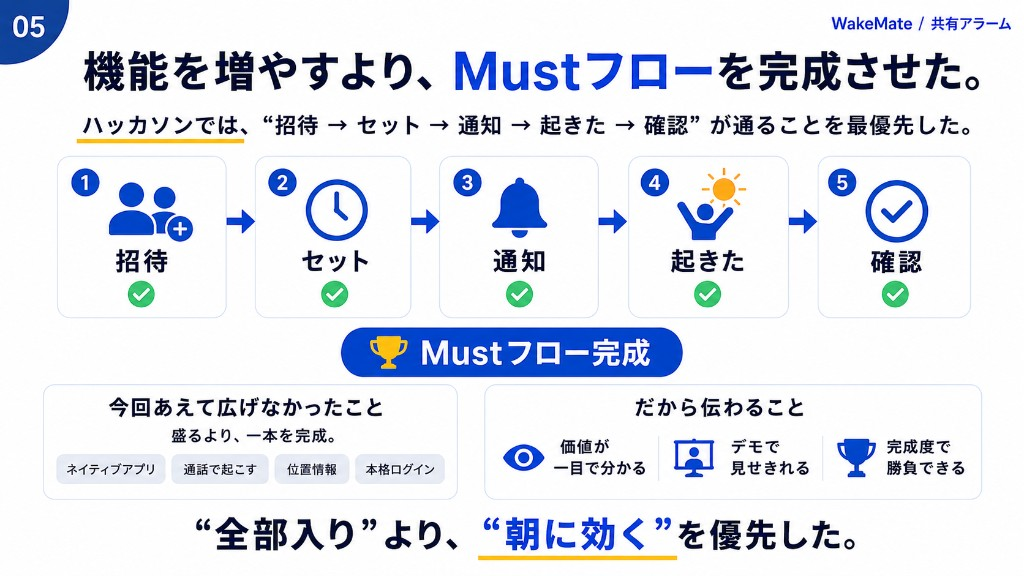
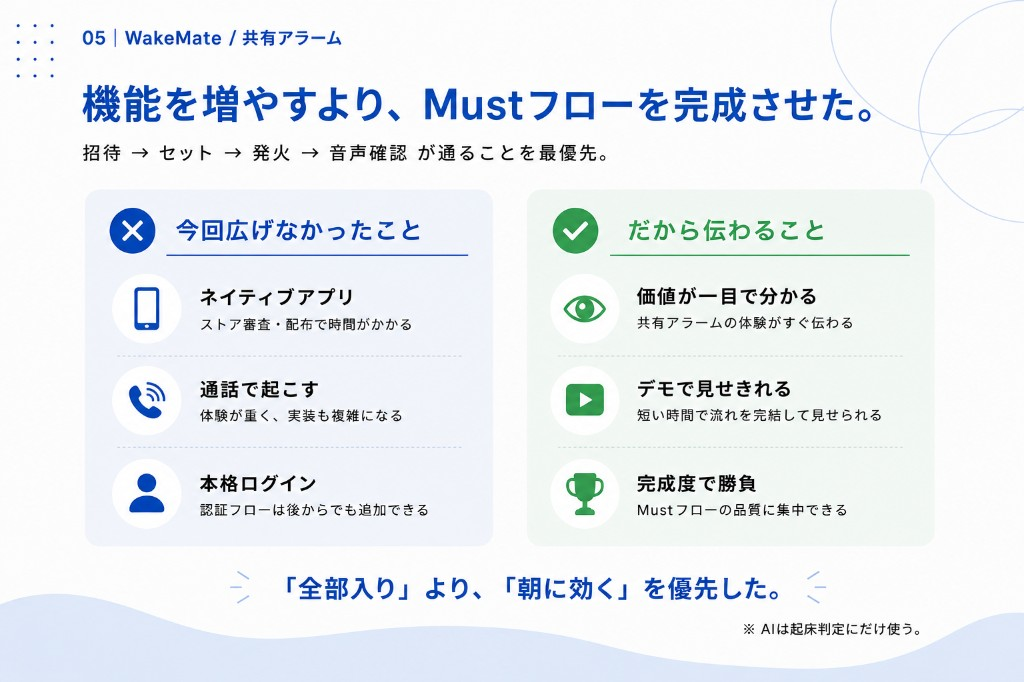
docs: refresh WakeMate pitch slides and add AI slide
Replace the slide PNGs with the new set and wire 04b (Workers AI / Whisper) into the viewer, README, and pitch script.

diff --git a/docs/slides/index.html b/docs/slides/index.html
@@ -55,7 +55,7 @@
 <body>
   <div id="stage"><img id="slide" alt="WakeMate slide" /></div>
   <div id="hud">
-    <span id="counter">1 / 7</span>
+    <span id="counter">1 / 8</span>
     <span><kbd>←</kbd> <kbd>→</kbd> / <kbd>Space</kbd> · <kbd>Home</kbd>/<kbd>End</kbd> · <kbd>F</kbd> fullscreen</span>
   </div>
   <script>
@@ -65,6 +65,7 @@
       { src: "02-solution.png", title: "解決" },
       { src: "03-must-flow.png", title: "Must UI" },
       { src: "04-tech.png", title: "技術" },
+      { src: "04b-ai.png", title: "AI（Whisper）" },
       { src: "05-scope.png", title: "スコープ" },
       { src: "06-brand.png", title: "締め" },
     ];

diff --git a/docs/slides/README.md b/docs/slides/README.md
@@ -13,11 +13,11 @@
 | 02 | `02-solution.png` | 解決 | アラームを「自分の設定」から「誰かとの約束」へ |
 | 03 | `03-must-flow.png` | Must UI | 招待→セット→発火→**音声確認**まで一本 |
 | 04 | `04-tech.png` | 技術 | Agents の schedule + setState。開いてるタブへリアルタイム |
-| 04b | `04b-ai.png`（再制作推奨） | **どうAIを使ったか** | Workers AI（Whisper）で読み上げ→文字起こし→照合。ボタン連打では突破できない |
+| 04b | `04b-ai.png` | **どうAIを使ったか** | Workers AI（Whisper）で読み上げ→文字起こし→照合。ボタン連打では突破できない |
 | 05 | `05-scope.png` | スコープ | 機能を足すより Must を完成させた（AIは起床判定にだけ使う） |
 | 06 | `06-brand.png` | 締め | 大事な朝は、信頼できる人が起こす |
 
-UI色・警報赤・音声確認はリポ直下 `仕様書.md` §3.1a / §11 を正とする。再制作プロンプトは仕様更新 PR の説明またはチャット成果物を参照。
+UI色・警報赤・音声確認はリポ直下 `仕様書.md` §3.1a / §11 を正とする。
 
 ## スライド 00（タイトル）
 
@@ -25,7 +25,7 @@ UI色・警報赤・音声確認はリポ直下 `仕様書.md` §3.1a / §11 を
 
 ## スライド 04（技術）メモ
 
-図は実装どおり（Agents / DO Alarm / 開いているタブへのリアルタイム。D1・Web Push なし）。デモ前提として両方タブを開いておく旨も図にある。**14:12 差し替え済み**（旧 D1/Push 図ではない）。
+図は実装どおり（Agents / DO Alarm / 開いているタブへのリアルタイム。D1・Web Push なし）。デモ前提として両方タブを開いておく旨も図にある。
 
 口頭の流れ（任意）:
 
@@ -34,6 +34,11 @@ UI色・警報赤・音声確認はリポ直下 `仕様書.md` §3.1a / §11 を
 3. 「起きた！」/ timed_out も同じ仕組み
 4. デモ前提: **両方タブを開いておく**（Push は Won't）
 
+## スライド 04b（AI）メモ
+
+起床確認に Workers AI（Whisper）を使う。読み上げフレーズ → マイク録音 → 文字起こし → 照合。単なるボタン連打では突破できない、という一点を口頭で押す。
+
 ## 補足
 
 - 03 の「ロック画面通知」モックも理想寄り。本番デモは開いているタブ上のフルスクリーン警報。
+- 全スライドは 2026-08-08 差し替え済み（`newslide-*` セット）。

diff --git a/docs/PITCH.md b/docs/PITCH.md
@@ -13,8 +13,9 @@
 | 0:00–0:20 | 入口 | 00 → 口頭 | 大事な朝は、人が起こす |
 | 0:20–1:30 | ①課題と解決 | 01 → 02 | 他人セット＋起床確認まで閉じる |
 | 1:30–3:00 | ②完成度 | 03（＋ライブデモ） | Workers で Must 一本（招待→発火→起きた） |
-| 3:00–4:20 | ③技術 | 04 | Agent `schedule` + `setState`。端末タイマーに賭けない |
-| 4:20–5:00 | ④熱量 | 05 → 06 | Push/D1 を切って Must に賭けた |
+| 3:00–4:00 | ③技術 | 04 | Agent `schedule` + `setState`。端末タイマーに賭けない |
+| 4:00–4:30 | ③′ AI | 04b | Whisper で読み上げ照合。ボタン連打では突破できない |
+| 4:30–5:00 | ④熱量 | 05 → 06 | Push/D1 を切って Must に賭けた。AIは起床判定だけ |
 
 ---
 
@@ -41,7 +42,7 @@
 **必ず言う**: 公開 URL `https://findy-campus-hackathon-2.trco0430.workers.dev`。  
 前提: **両方タブを開いておく**（Push なし）。
 
-## 3:00–4:20　③ 技術
+## 3:00–4:00　③ 技術
 
 1. アラーム作成で Agent の `schedule(発火時刻)`  
 2. 発火で `status = fired` → `setState` で接続中クライアントへ配信  
@@ -49,7 +50,12 @@
 
 Workers で API+UI を1デプロイ。難所は「端末の setTimeout に賭けない」こと。
 
-## 4:20–5:00　④ チーム・締め
+## 4:00–4:30　③′ AI（スライド 04b）
 
-役割を一言ずつ。認証・通話・AI・Push・D1 は切って Must 一本。  
+Workers AI（Whisper）: 読み上げ → 文字起こし → 照合。  
+ボタン連打では突破できない。AIは起床判定にだけ使う。
+
+## 4:30–5:00　④ チーム・締め
+
+役割を一言ずつ。認証・通話・Push・D1 は切って Must 一本（AIは起床確認のみ）。  
 「大事な朝は、信頼できる人が起こす。」質問どうぞ。
